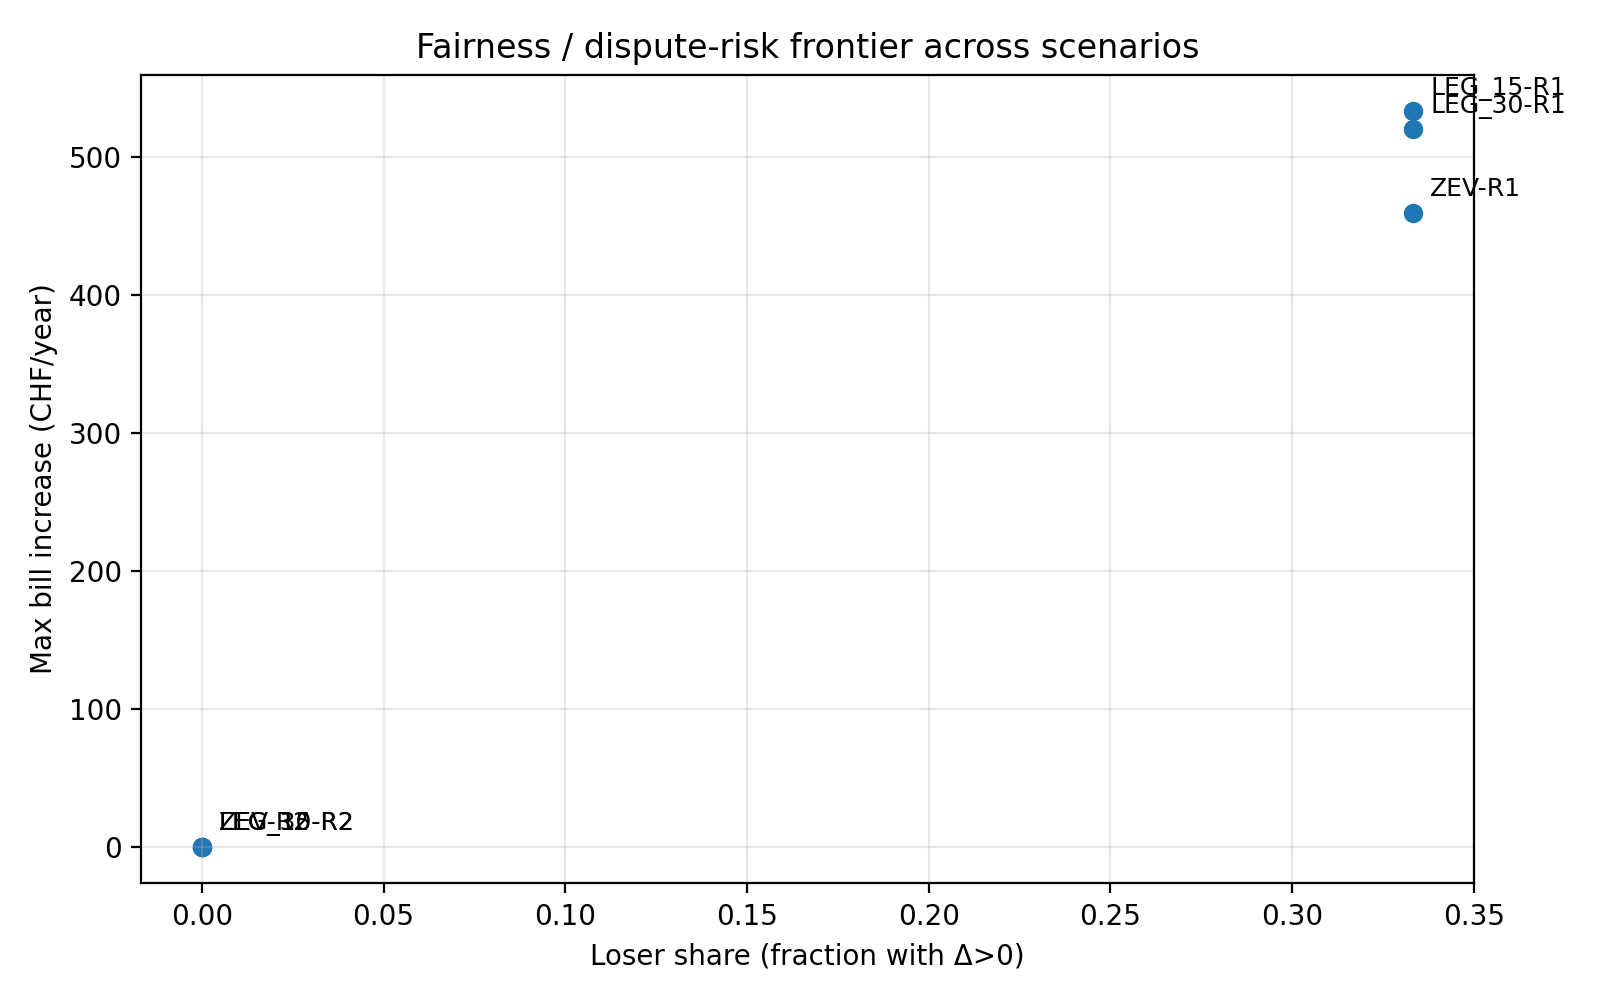
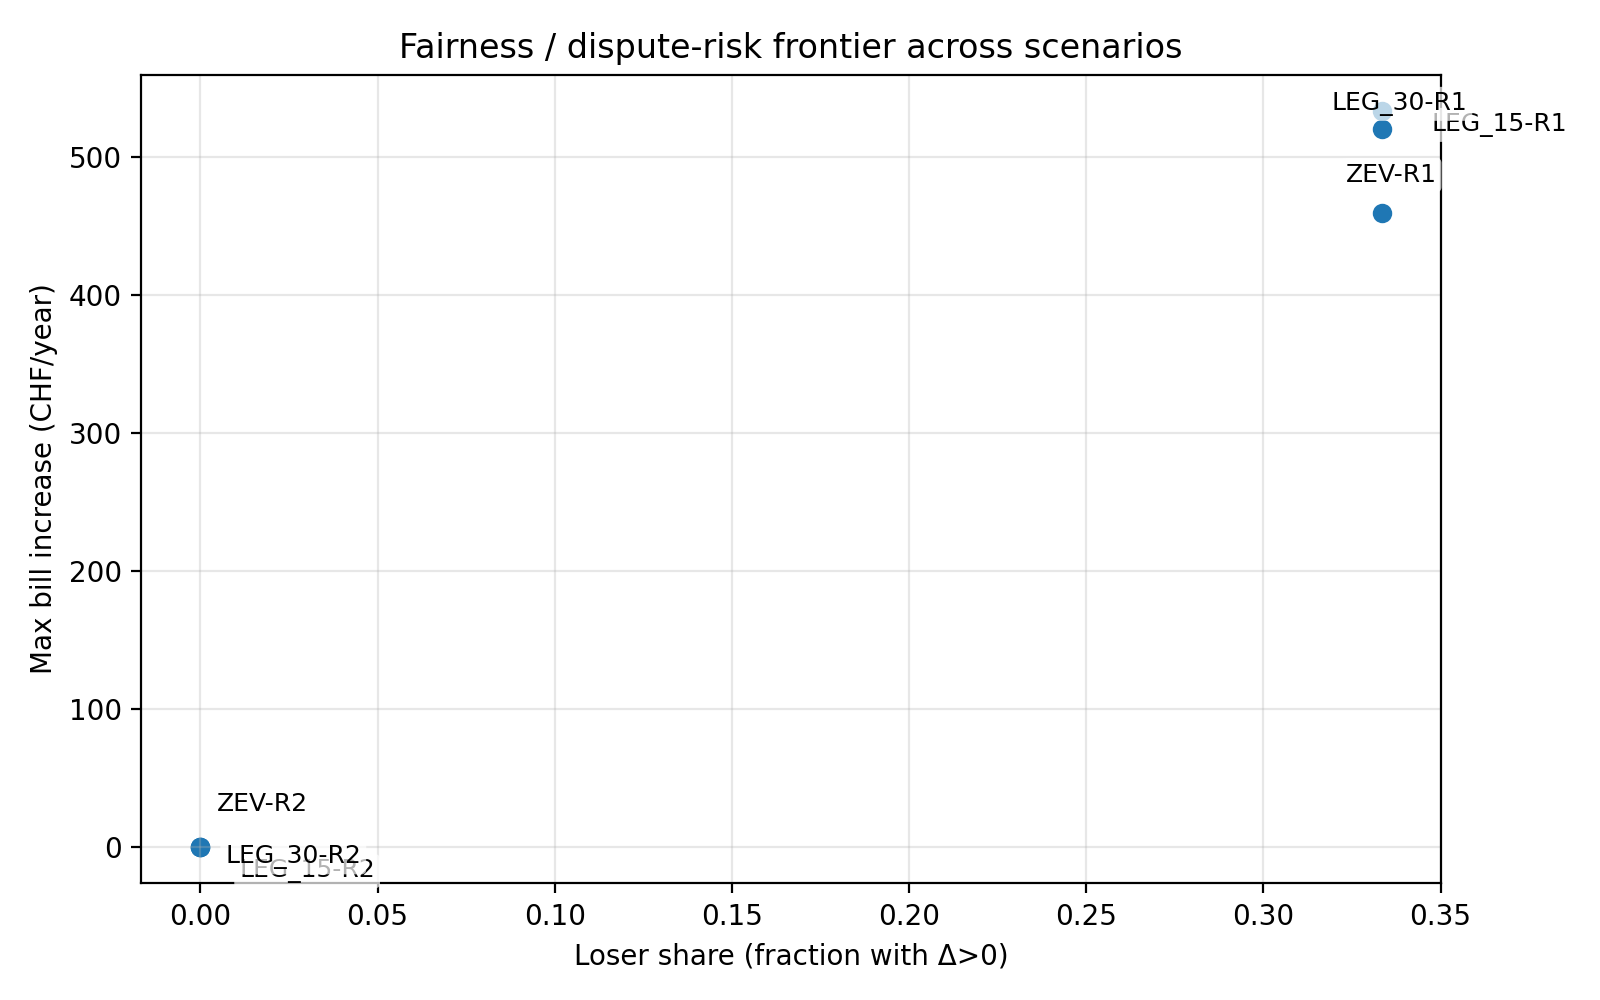
Improve fairness frontier label readability

diff --git a/src/zevleg_mvp/plots.py b/src/zevleg_mvp/plots.py
@@ -1,4 +1,5 @@
 from __future__ import annotations
+import hashlib
 import pandas as pd
 import matplotlib.pyplot as plt
 
@@ -36,10 +37,32 @@ def plot_bill_changes(df_long: pd.DataFrame, outpath: str) -> None:
 
 def plot_fairness_frontier(df_points: pd.DataFrame, outpath: str) -> None:
     """Scatter plot: loser share vs max increase."""
+    def _label_offset(label: str) -> tuple[int, int]:
+        """
+        Deterministic, small text offsets (in points) derived from the label hash
+        so nearby points get nudged apart without random jitter.
+        """
+        digest = hashlib.sha1(label.encode("utf-8")).digest()
+
+        def _component(b_mag: int, b_sign: int) -> int:
+            magnitude = 6 + (b_mag % 13)  # 6-18 point shift
+            sign = 1 if (b_sign % 2) else -1
+            return magnitude * sign
+
+        return _component(digest[0], digest[1]), _component(digest[2], digest[3])
+
     fig, ax = plt.subplots(figsize=(8, 5))
     ax.scatter(df_points['loser_share'], df_points['max_increase_chf'])
     for _, r in df_points.iterrows():
-        ax.annotate(r['label'], (r['loser_share'], r['max_increase_chf']), textcoords="offset points", xytext=(6,6), fontsize=9)
+        dx, dy = _label_offset(r['label'])
+        ax.annotate(
+            r['label'],
+            (r['loser_share'], r['max_increase_chf']),
+            textcoords="offset points",
+            xytext=(dx, dy),
+            fontsize=9,
+            bbox={"boxstyle": "round,pad=0.2", "facecolor": "white", "alpha": 0.7, "edgecolor": "none"},
+        )
     ax.set_xlabel("Loser share (fraction with Δ>0)")
     ax.set_ylabel("Max bill increase (CHF/year)")
     ax.set_title("Fairness / dispute-risk frontier across scenarios")
